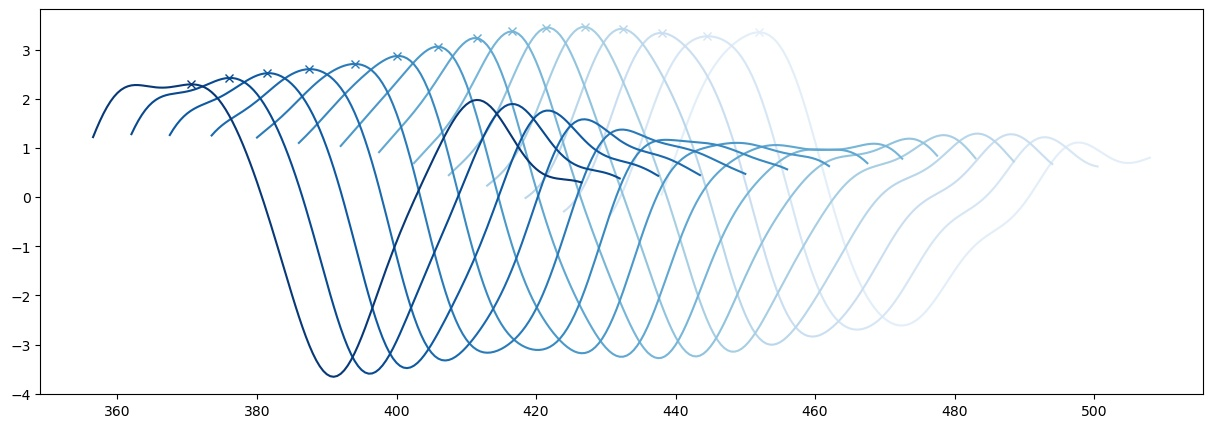
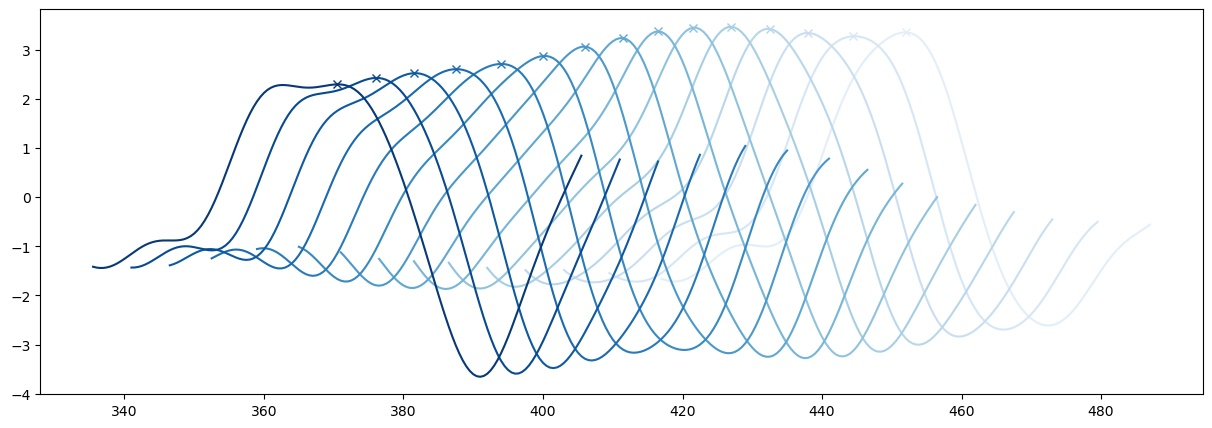
fixing plot along track with breaking marking

diff --git a/peak_tracking.py b/peak_tracking.py
@@ -167,7 +167,23 @@ class Peak:
 
     def plot_track(self, x, t, data, x_extent=70, dt_plot=1., cm_name='Blues', ax=None):
         '''
-        Plots the evolution along the track and marks the edge
+        Plots the evolution of the provided data along the track and marks the peak
+        -----------
+                    input       array
+                                x-axis
+                    input       array
+                                t-axis
+                    data        2d array
+                                data to be plotted along the track over time and space
+                    x_extent    float
+                                extent that should be plot around the peak 
+                    dt_plot     float
+                                time stepping for plotting in seconds, default: 1.0
+                    cm_name     string
+                                name of the cmap utilized, default: 'Blues'
+                    ax          axis
+                                axis to be used from previously generated plots, 
+                                if None a new axis is generated, default: None
         '''
         if ax == None:
             fig, ax = plotting_interface.subplots(figsize=(15,5))
@@ -181,15 +197,33 @@ class Peak:
             N_skip = 1
         colors = plotting_interface.get_cmap(cm_name)(np.linspace(0.1,1,N_max_peak_positions))
         for i in np.arange(0, N_max_peak_positions, N_skip):
-            start_ind = np.max([0, x_ind[i] - int(0.2*interval_size)])
-            end_ind = np.min([x_ind[i] + int(0.8*interval_size), len(x)-2])
+            start_ind = np.max([0, x_ind[i] - int(0.5*interval_size)])
+            end_ind = np.min([x_ind[i] + int(0.5*interval_size), len(x)-2])
             ax.plot(x[start_ind:end_ind+1], data[t_ind[i], start_ind:end_ind+1], color=colors[i])
             ax.plot(x[x_ind[i]], data[t_ind[i], x_ind[i]], 'x', color=colors[i])
         return ax
 
-    def plot_track_and_mark_breaking(self, x, t, data, mask, x_extent=70, dt_plot=1., cm_name='Blues', ax=None):
+    def plot_track_and_mark_breaking(self, x, t, data, x_extent=70, dt_plot=1., cm_name='Blues', ax=None):
         '''
-        Plots the evolution along the track and marks where breaking occurs
+        Plots the evolution along the track and marks where breaking occurs. 
+
+        Parameters:
+        -----------
+                    input       array
+                                x-axis
+                    input       array
+                                t-axis
+                    data        2d array
+                                data to be plotted along the track over time and space  
+                    x_extent    float
+                                extent that should be plot around the peak 
+                    dt_plot     float
+                                time stepping for plotting in seconds, default: 1.0
+                    cm_name     string
+                                name of the cmap utilized, default: 'Blues'
+                    ax          axis
+                                axis to be used from previously generated plots, 
+                                if None a new axis is generated, default: None                
         '''
         if ax == None:
             fig, ax = plotting_interface.subplots(figsize=(15,5))
@@ -203,18 +237,14 @@ class Peak:
             N_skip = 1
         colors = plotting_interface.get_cmap(cm_name)(np.linspace(0.1,1,N_max_peak_positions))
         for i in np.arange(0, N_max_peak_positions, N_skip):
-            start_ind = np.max([0, x_ind[i] - int(0.2*interval_size)])
-            end_ind = np.min([x_ind[i] + int(0.8*interval_size), len(x)-2])
+            start_ind = np.max([0, x_ind[i] - int(0.5*interval_size)])
+            end_ind = np.min([x_ind[i] + int(0.5*interval_size), len(x)-2])
             ax.plot(x[start_ind:end_ind+1], data[t_ind[i], start_ind:end_ind+1], color=colors[i])
             # If there is breaking happening in this time step in the observed interval
-            if sum(mask[t_ind[i], start_ind:end_ind+1])>0:
-                first_breaking_ind = start_ind + np.argwhere(mask[t_ind[i], start_ind:end_ind+1]==1)#[-1]
-                ax.plot(x[first_breaking_ind], data[t_ind[i], first_breaking_ind], 'rx')#, color=colors[i])
+            if self.Bx[i]>self.threshold:
+                ax.plot(x[x_ind[i]], data[t_ind[i], x_ind[i]], 'rx')#, color=colors[i])
         return ax
       
-
-
-
 class PeakTracker:
     def __init__(self, x, t, eta0, vel0, cmax=10.0, high_peak_thresh=3.0, long_peak_thresh=300):
         self.x = x
